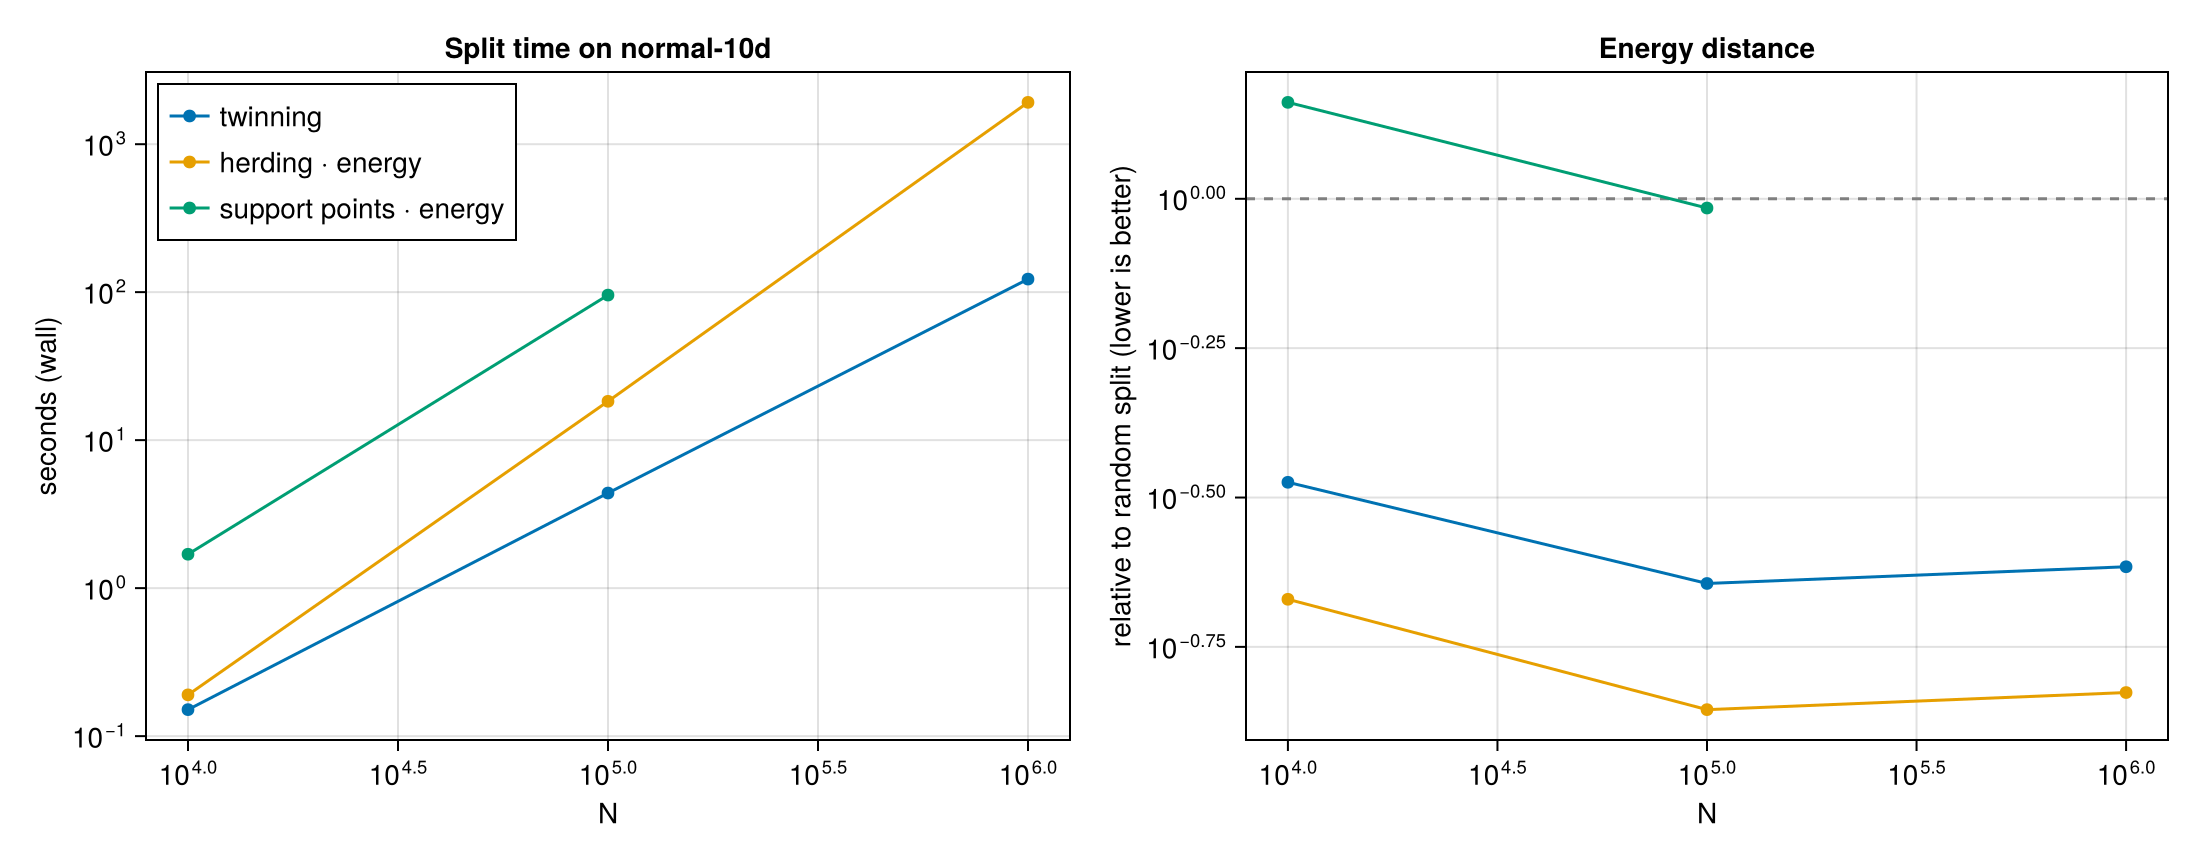
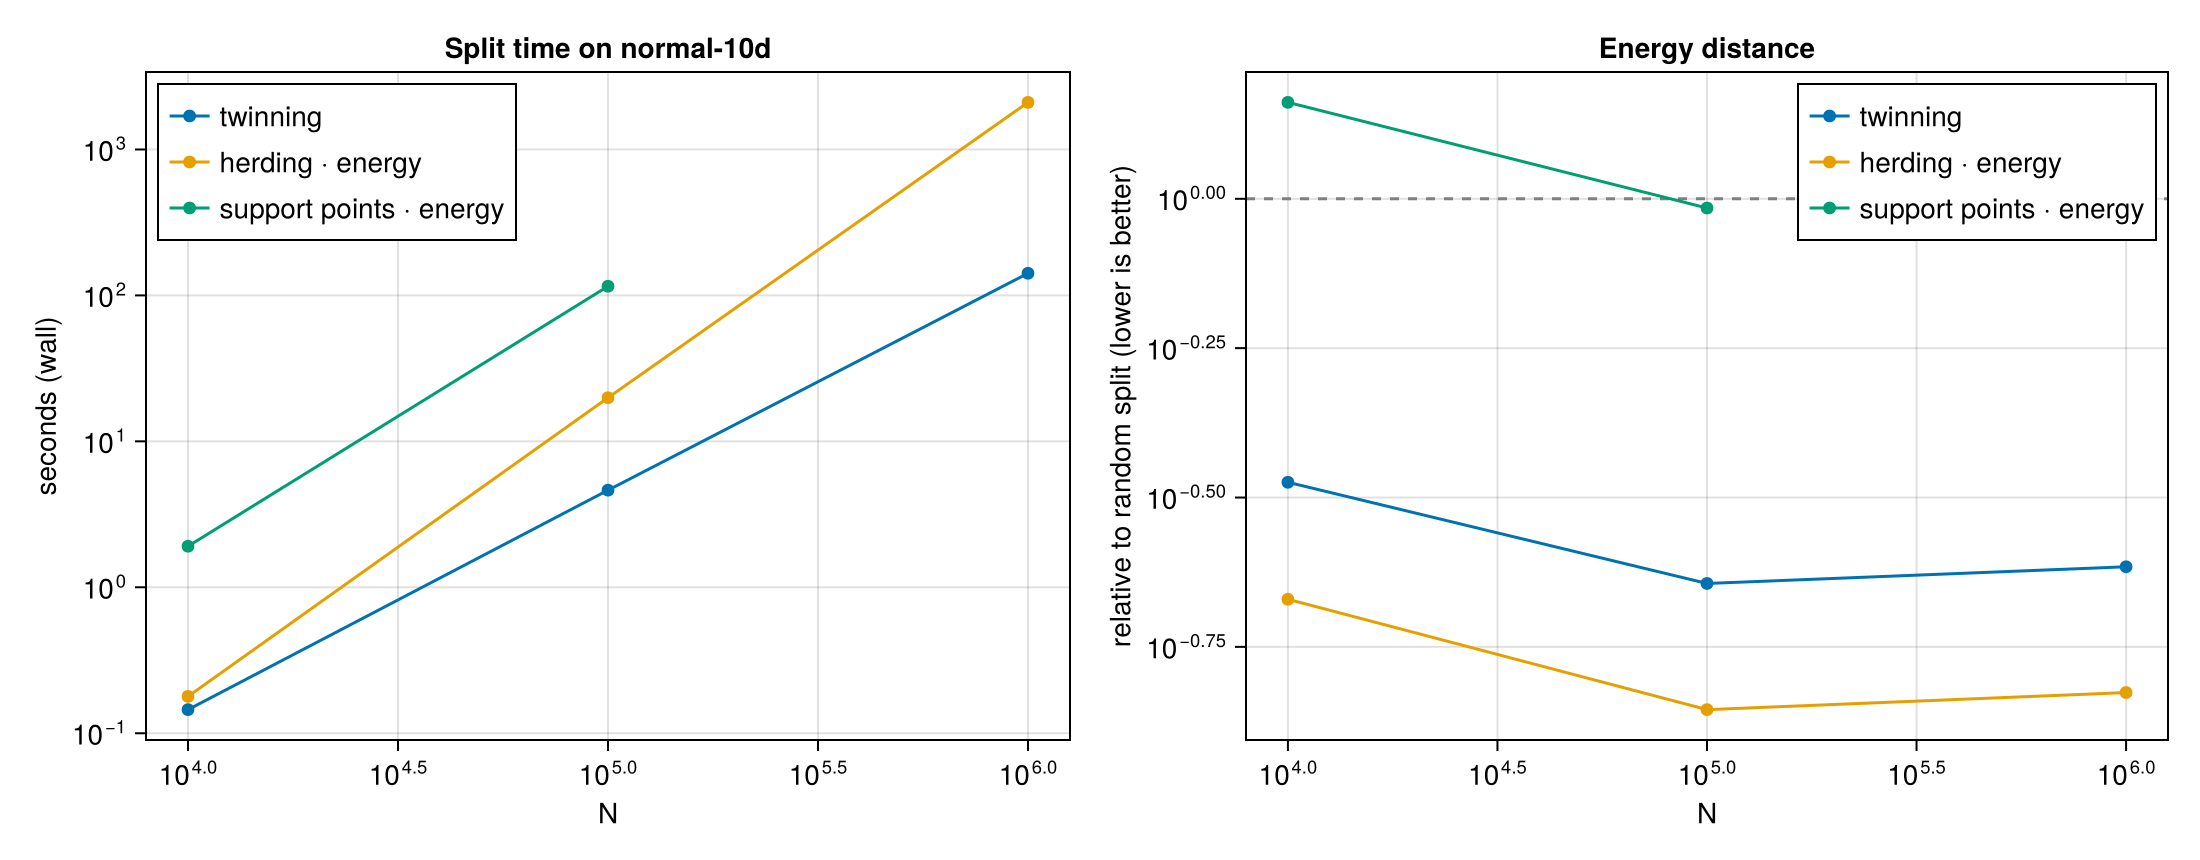
docs: Refresh the twinning scale benchmark from an idle-machine run

diff --git a/docs/src/assets/benchmarks/twinning.md b/docs/src/assets/benchmarks/twinning.md
@@ -1,13 +1,13 @@
 | N | method | energy distance | seconds |
 |---:|---|---:|---:|
 | 10000 | twinning | 0.000934 | 0.15 |
-| 10000 | herding · energy | 0.000595 | 0.19 |
-| 10000 | support points · energy | 0.00404 | 1.7 |
+| 10000 | herding · energy | 0.000595 | 0.18 |
+| 10000 | support points · energy | 0.00404 | 1.9 |
 | 10000 | random | 0.00278 | – |
-| 100000 | twinning | 7.34e-5 | 4.4 |
-| 100000 | herding · energy | 4.52e-5 | 18.0 |
-| 100000 | support points · energy | 0.000312 | 96.0 |
+| 100000 | twinning | 7.34e-5 | 4.6 |
+| 100000 | herding · energy | 4.52e-5 | 20.0 |
+| 100000 | support points · energy | 0.000312 | 120.0 |
 | 100000 | random | 0.000323 | – |
-| 1000000 | twinning | 5.65e-6 | 120.0 |
-| 1000000 | herding · energy | 3.48e-6 | 1900.0 |
+| 1000000 | twinning | 5.65e-6 | 140.0 |
+| 1000000 | herding · energy | 3.48e-6 | 2100.0 |
 | 1000000 | random | 2.33e-5 | – |

diff --git a/docs/src/20-benchmarks.md b/docs/src/20-benchmarks.md
@@ -91,9 +91,9 @@ a difference between the families.
 
 ![Twinning against the other splitters on normal-10d](assets/benchmarks/twinning.png)
 
-Twinning finishes in 0.15 s at N = 10,000, 4.4 s at N = 100,000, and
-120 s at N = 1,000,000 — 4x faster than herding at 10⁵ and 16x faster
-at 10⁶, and 22x faster than support points at 10⁵. Its energy distance
+Twinning finishes in 0.15 s at N = 10,000, 4.6 s at N = 100,000, and
+140 s at N = 1,000,000 — 4.3x faster than herding at 10⁵ and 15x faster
+at 10⁶, and 26x faster than support points at 10⁵. Its energy distance
 is 3.0x, 4.4x, and 4.1x below the random split at those three sizes,
 though herding's is lower still, by a steady 1.6x at every N. Twinning
 is faster from N = 10⁴ on, by a widening margin at 10⁵ and 10⁶; keep
